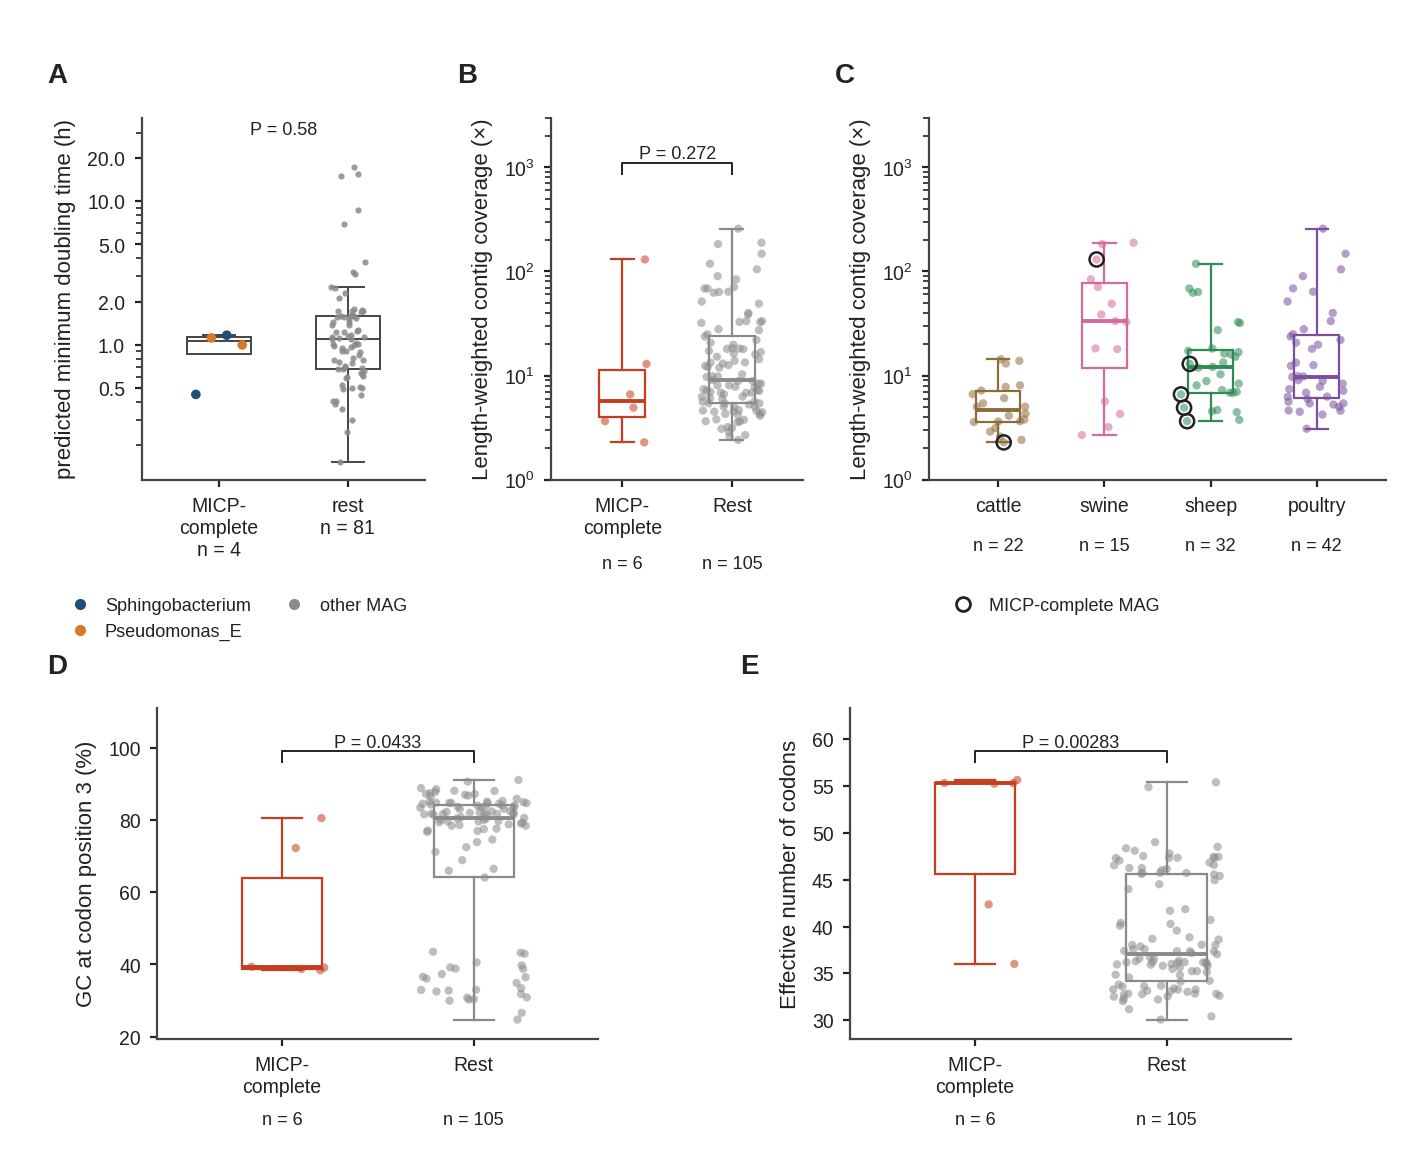
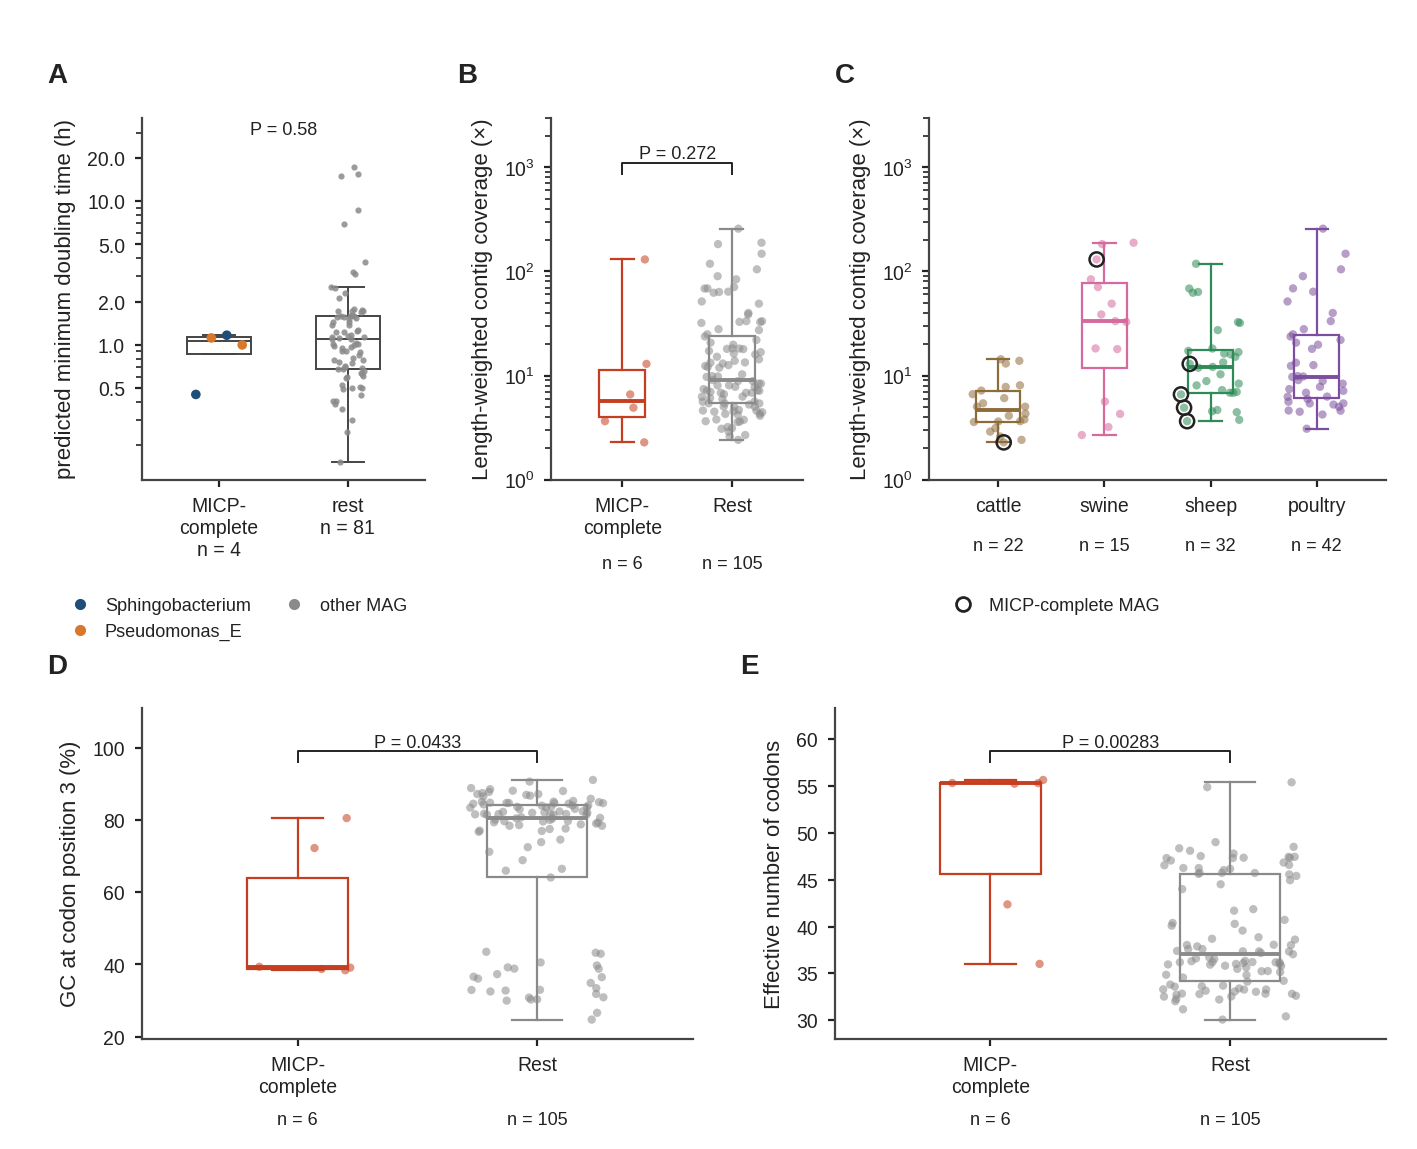
Fig S1: A spans the B/C column extent, colour-bar caption clears its ticks; Fig S5: D and E widened to the A-C extent

diff --git a/figures/new_figure_v2/build_v2_supS1.py b/figures/new_figure_v2/build_v2_supS1.py
@@ -66,7 +66,9 @@ WRAP_CHARS = 15      # a column label longer than this is wrapped at a space ...
 WRAP_MIN_PITCH = 8.0 # ... but only where the cell pitch can hold a two-line block
 CBAR_W = 3.0
 CBAR_GAP = 6.0       # heat map -> colour bar, mm (unchanged)
-CBAR_LAB_DX = 15.5   # heat map -> colour-bar caption, mm (unchanged)
+CBAR_LAB_PAD = 2.0   # colour-bar tick labels -> caption, mm; the caption is placed
+                     # from the rendered tick-label width, because a 0.45 tick is wider
+                     # than a 0.8 tick and a fixed offset ran the two into each other
 CBAR_H_MAX = 30.0
 
 # ------------------------------------------------------------------ data
@@ -98,10 +100,11 @@ TOP_BC = TOP_A + BLOCK_H + 8.0 + HDR_BC
 TOP_DE = TOP_BC + BLOCK_H + 8.0 + HDR_DE
 H = TOP_DE + BLOCK_H + 10.0
 
-# x geometry: A spans the page, B/C and D/E sit in two columns
-X_A, W_A = 34.0, 112.0
+# x geometry: B/C and D/E sit in two columns; A spans exactly from the left edge of the
+# left column to the right edge of the right column (revision of 2026-09-09)
 X_L, W_HALF = 33.0, 36.0
 X_R = 122.0
+X_A, W_A = X_L, X_R + W_HALF - X_L
 POS = {"A": (X_A, TOP_A, W_A, 4.0, 4.0),
        "B": (X_L, TOP_BC, W_HALF, 4.0, TOP_BC - HDR_BC),
        "C": (X_R, TOP_BC, W_HALF, 88.0, TOP_BC - HDR_BC),
@@ -134,8 +137,12 @@ for key, _cat in PANELS:
     tr.draw_genus_heatmap(fig, ax, cax, table, n_mags)
     if w / table.shape[1] >= WRAP_MIN_PITCH:
         wrap_ticklabels(ax, table)
-    text_mm(x + w + CBAR_LAB_DX, top + cbar_h / 2, CBAR_LABEL, rotation=90,
-            ha="center", va="center", fontsize=st.FS_BODY)
+    fig.canvas.draw()
+    r = fig.canvas.get_renderer()
+    tick_w = max(t.get_window_extent(renderer=r).width for t in cax.get_yticklabels()) \
+        / fig.dpi * 25.4
+    text_mm(x + w + CBAR_GAP + CBAR_W + tick_w + CBAR_LAB_PAD + 1.5, top + cbar_h / 2,
+            CBAR_LABEL, rotation=90, ha="center", va="center", fontsize=st.FS_BODY)
     letter(lx, ly, key)
 
 st.audit(fig)

diff --git a/figures/new_figure_v2/build_v2_supS5.py b/figures/new_figure_v2/build_v2_supS5.py
@@ -223,8 +223,9 @@ axC.legend(handles=[Line2D([], [], marker="o", linestyle="none", markerfacecolor
            fontsize=FS_STAT, handletextpad=0.4)
 
 # ------------------------------------------------------------------ D, E: codon usage
-for x0, xl, pan, lt in zip([20.0, 108.0], [6.0, 94.0], codon_panels, "DE"):
-    ax = ax_mm(x0, TOP2, 56.0, PH2)
+# D and E together span the same extent as A-C (18-176 mm; revision of 2026-09-09)
+for x0, xl, pan, lt in zip([18.0, 106.0], [6.0, 94.0], codon_panels, "DE"):
+    ax = ax_mm(x0, TOP2, 70.0, PH2)
     letter(xl, TOP2 - 7.0, lt)
     groups = [("MICP-\ncomplete", pan["h"]), ("Rest", pan["r"])]
     xs, _ = gh.strip_box(ax, groups, [HERO, REST])

diff --git a/figures/new_figure/_job/JOURNAL.md b/figures/new_figure/_job/JOURNAL.md
@@ -891,3 +891,13 @@ tip labels is far larger than the glyphs (230 false overlaps on the new Fig 1). 
 rotation that is not a multiple of 90° and `rotation_mode="anchor"` is now tested with its
 oriented box (separating-axis test).  The first version of this fix restored the rotation
 modulo 180 and silently flipped the left-half labels — restore the exact angle.
+
+## 2026-09-09 (2) — Fig S1 and S5 after the user's second review
+- **Fig S1**: A now spans exactly the left edge of the B/D column to the right edge of the
+  C/E column (`X_A = X_L`, `W_A = X_R + W_HALF - X_L` = 125 mm).  The colour-bar caption
+  was placed at a fixed 15.5 mm from the heat map, so B's wider "0.45" ticks ran into it;
+  the caption is now placed from the rendered tick-label width (`CBAR_LAB_PAD`).
+- **Fig S5**: D and E widened from 56 to 70 mm and moved to 18 and 106 mm, so the pair
+  spans 18–176 mm, the same extent as A–C.
+Both pages audit-clean; consistency 19/19 and numbers 90/90 re-run; copied to
+`SUBMISSION_v2/Figures/`.  Legends unchanged (layout only).
